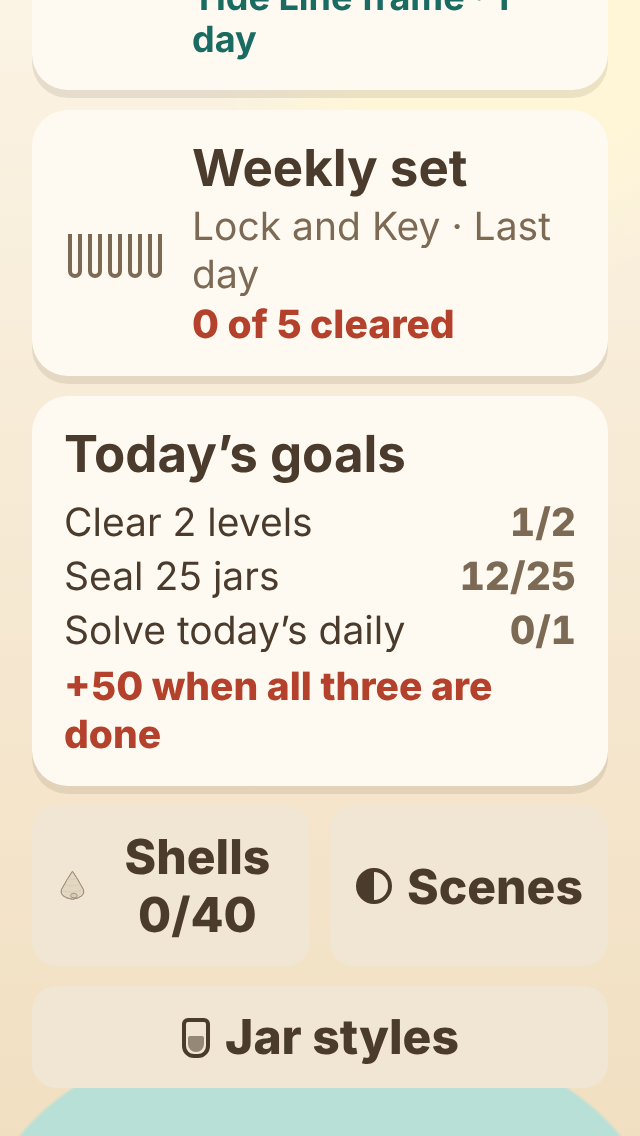
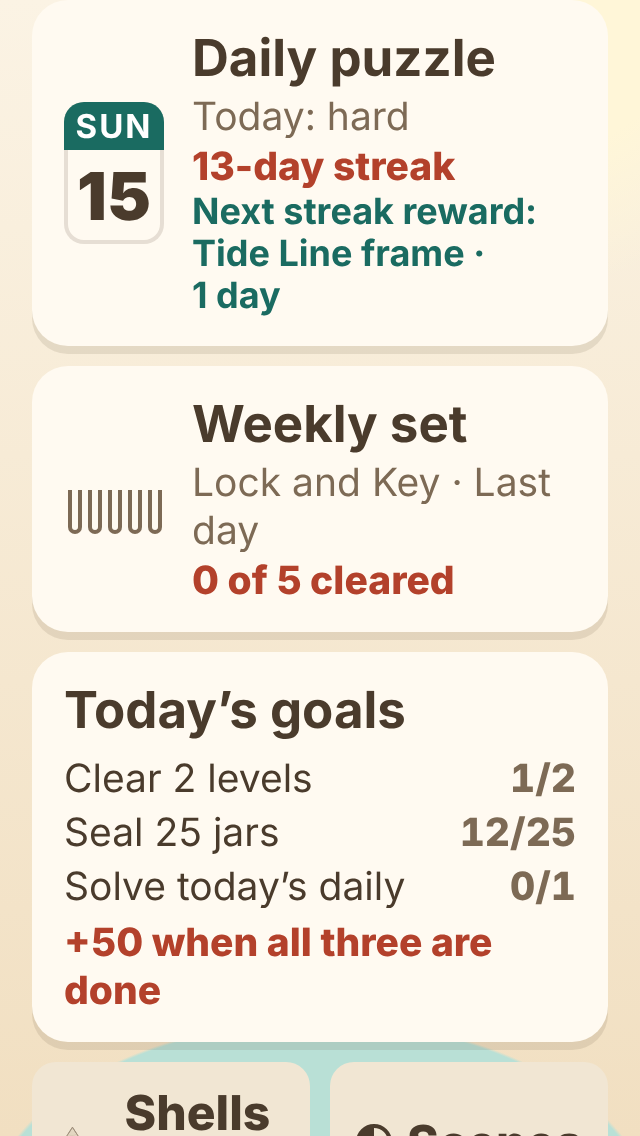
feat: release 0.15.0, streak rewards and daily goals
What's new 0.15.0 "Come back tomorrow"; a catch-up line for players who
update mid-streak; upgrade play-through evidence; decisions D135-D140
built; sprint 16 closed. The full-track sheet is a Beads follow-up.

Issue: strata-rin
Design: production/sprints/sprint-16.md

Claude-Session: https://claude.ai/code/session_0159TZnthw6jUQwzZniQXEcQ

diff --git a/src/ui/strings.ts b/src/ui/strings.ts
@@ -199,6 +199,15 @@ const en = {
     latest: 'Latest',
     releases: [
       {
+        version: '0.15.0',
+        name: 'Come back tomorrow',
+        lines: [
+          'Streak rewards: keep your daily streak going to earn boosters on days 3 and 7, then a frame, a jar glass, a name plate and a night scene you can only get this way.',
+          'Rewards are yours to keep, even if a streak ends.',
+          "Today's goals: three small goals each day on Home, worth coins, with a bonus when all three are done.",
+        ],
+      },
+      {
         version: '0.14.1',
         name: 'An easier climb',
         lines: [
@@ -619,11 +628,13 @@ const en = {
   /** The streak reward track (sprint 16, D136; daily-puzzle.md §2.4): Home's next reward, win card rows, locked pieces. */
   track: {
     /** The daily card's line, e.g. "Next streak reward: Tide Line frame · 4 days". */
-    next: (name: string, days: number) => `Next streak reward: ${name} \u00b7 ${days === 1 ? '1 day' : `${days} days`}`,
+    next: (name: string, days: number) => `Next streak reward: ${name} \u00b7 ${days === 1 ? '1\u00a0day' : `${days}\u00a0days`}`,
+    /** A streak that already passed unclaimed days (a player who updated mid-streak, D140). */
+    catchUp: 'Your next daily solve collects your streak rewards',
     /** A win card row, e.g. "Day 7 streak reward: Hint ×2, Shuffle, Jar". */
     row: (day: number, name: string) => `Day ${day} streak reward: ${name}`,
     /** A streak-only scene or jar piece not earned yet, e.g. "Streak reward · day 100". */
-    locked: (day: number) => `Streak reward \u00b7 day ${day}`,
+    locked: (day: number) => `Streak reward \u00b7 day\u00a0${day}`,
     frame: (name: string) => `${name} frame`,
     plate: (name: string) => `${name} name plate`,
     /** A jar piece with its slot, e.g. "Sea Lantern glass". */

diff --git a/src/ui/style.css b/src/ui/style.css
@@ -2880,7 +2880,7 @@ body[data-theme='lighthousenight'] :is(.tool, .daily-card, .profile-chip) {
   inherits: false;
   initial-value: 100deg;
 }
-/* A soft warm beam from a lamp at the top left, behind everything (z -1, no input). It sweeps slowly
+/* A soft warm beam from a lamp at the left, clear of the profile chip, behind everything (z -1, no input). It sweeps slowly
    with motion allowed, and holds still under reduced motion. */
 body[data-theme='lighthousenight'] .home::before {
   content: '';
@@ -2889,8 +2889,8 @@ body[data-theme='lighthousenight'] .home::before {
   z-index: -1;
   pointer-events: none;
   background:
-    radial-gradient(circle at 8% 9%, rgba(255, 232, 180, 0.9) 0 4px, rgba(255, 210, 130, 0.35) 9px, transparent 26px),
-    conic-gradient(from var(--beam-a) at 8% 9%, transparent 0deg, rgba(255, 214, 140, 0.16) 8deg, rgba(255, 214, 140, 0.05) 20deg, transparent 26deg, transparent 360deg);
+    radial-gradient(circle at 9% 24%, rgba(255, 232, 180, 0.9) 0 4px, rgba(255, 210, 130, 0.35) 9px, transparent 26px),
+    conic-gradient(from var(--beam-a) at 9% 24%, transparent 0deg, rgba(255, 214, 140, 0.16) 8deg, rgba(255, 214, 140, 0.05) 20deg, transparent 26deg, transparent 360deg);
 }
 @media (prefers-reduced-motion: no-preference) {
   body[data-theme='lighthousenight'] .home::before {

diff --git a/tests/unit/ui/logic/streak-track.test.ts b/tests/unit/ui/logic/streak-track.test.ts
@@ -23,9 +23,12 @@ describe('trackRewardName', () => {
 
 describe('nextRewardLine', () => {
   it('names the lowest unclaimed day and the days left', () => {
-    expect(nextRewardLine([3, 7], 10, track, names)).toBe('Next streak reward: Tide Line frame · 4 days');
-    expect(nextRewardLine([3, 7], 13, track, names)).toBe('Next streak reward: Tide Line frame · 1 day');
-    expect(nextRewardLine([], 0, track, names)).toBe('Next streak reward: Hint, Shuffle · 3 days');
+    expect(nextRewardLine([3, 7], 10, track, names)).toBe('Next streak reward: Tide Line frame · 4\u00a0days');
+    expect(nextRewardLine([3, 7], 13, track, names)).toBe('Next streak reward: Tide Line frame · 1\u00a0day');
+    expect(nextRewardLine([], 0, track, names)).toBe('Next streak reward: Hint, Shuffle · 3\u00a0days');
+  });
+  it('says the next solve collects when the streak already passed an unclaimed day (D140 catch-up)', () => {
+    expect(nextRewardLine([], 20, track, names)).toBe('Your next daily solve collects your streak rewards');
   });
   it('is empty once the whole track is claimed', () => {
     expect(nextRewardLine(track.map((s) => s.day), 120, track, names)).toBe('');

diff --git a/src/ui/logic/streak-track.ts b/src/ui/logic/streak-track.ts
@@ -43,12 +43,16 @@ export function trackRewardName(reward: TrackReward, names: TrackNames): string 
 }
 
 /**
- * The daily card's line: "Next streak reward: Tide Line frame · 4 days", or '' once every track
+ * The daily card's line: "Next streak reward: Tide Line frame · 4 days", the catch-up line when the
+ * streak already passed an unclaimed day, or '' once every track
  * day is claimed. `streak` is the live streak (`streakStatus(...).current`).
  */
 export function nextRewardLine(claimed: readonly number[], streak: number, track: readonly TrackStep[], names: TrackNames): string {
   const next = nextTrackStep(claimed, streak, track);
-  return next ? t.track.next(trackRewardName(next.step.reward, names), next.daysLeft) : '';
+  if (!next) return '';
+  // The streak already passed an unclaimed day (updated mid-streak): the next counted solve pays it (D140).
+  if (next.step.day <= streak) return t.track.catchUp;
+  return t.track.next(trackRewardName(next.step.reward, names), next.daysLeft);
 }
 
 /**

diff --git a/design/gdd/systems-index.md b/design/gdd/systems-index.md
@@ -38,7 +38,7 @@ Strata is a phone-first sort puzzle: the player pours layers of sand between jar
 | 14 | Weekly set | Progression | Full Vision | Implemented (sprint 11 W1, W2, D77) | [weekly-set.md](weekly-set.md) | 2, 3, 6, 9, 10, 13 |
 | 15 | Jar styles | Economy | Full Vision | Implemented (sprint 12, D85–D94) | [jar-styles.md](jar-styles.md) | 5, 8, 9, 10 |
 | 16 | Sharing | Meta | Full Vision | Designed and signed off (D116–D124), building in sprint 14 | [sharing.md](sharing.md) | 6, 7, 8, 9, 11, 12, 13, 14, 15 |
-| 17 | Daily goals | Progression | Full Vision | Designed (sprint 16, D137), building | [daily-goals.md](daily-goals.md) | 4, 5, 6, 10, 12, 14 |
+| 17 | Daily goals | Progression | Full Vision | Implemented (sprint 16, D137) | [daily-goals.md](daily-goals.md) | 4, 5, 6, 10, 12, 14 |
 
 Systems 2 and 3 depend on each other at the edges: generation places mechanics, and mechanics need the solver in generation. Both sit above the pour rules. Economy reads the tall-jar flag from level generation (2). Feel, audio and UI presents the player profile's screens (11); the profile does not depend on 9.
 
@@ -195,9 +195,9 @@ Every `INTENT UNKNOWN` item was put to the owner. "Build" means the decision nee
 | D132 | Measuring "gentle" | **A simulated player** that sees only visible sand and gives up after a patience limit, plus booster counts; replaces solver pours as the target | level-generation | built (0.14.1) |
 | D133 | Shipping | **One PR as 0.14.1**, best pours reset once for changed levels (D110 rule), after the owner approves the plan | — | built (0.14.1) |
 | D134 | A challenge on the receiver's own next level | **Pays as a normal first clear**: it is their own next level; only an already-cleared level plays as a replay with no coins (bug sweep, strata-8s1) | sharing | built |
-| D135 | Next focus after the bug sweep | **Bring players back**: more reasons to return each day, inside the brief's anti-pillars (owner interview 2026-11-11) | daily-puzzle, daily-goals | planned |
-| D136 | Streak reward track | **Fixed rewards on streak days 3, 7, 14, 30, 60, 100**: boosters on 3 and 7, then streak-only cosmetics (Tide Line frame, Sea Lantern glass, Lighthouse plate, Lighthouse Night scene), never for sale | daily-puzzle | planned |
-| D137 | Daily goals | **Three goals a UTC day, the same for everyone**, picked from the date; each pays 20-40 coins once, all three +50 | daily-goals | planned |
-| D138 | Reminders | **None**: no notifications, app badges or calendar events; the reasons to return live in the game | daily-goals | planned |
-| D139 | Release size | **One sprint, one release: 0.15.0** with a What's new card | release | planned |
-| D140 | A missed day and the track | **The track counts the current streak; rewards are kept and each day is claimed once.** A solve claims every unclaimed day up to the new streak (catch-up) | daily-puzzle | planned |
+| D135 | Next focus after the bug sweep | **Bring players back**: more reasons to return each day, inside the brief's anti-pillars (owner interview 2026-11-11) | daily-puzzle, daily-goals | built |
+| D136 | Streak reward track | **Fixed rewards on streak days 3, 7, 14, 30, 60, 100**: boosters on 3 and 7, then streak-only cosmetics (Tide Line frame, Sea Lantern glass, Lighthouse plate, Lighthouse Night scene), never for sale | daily-puzzle | built |
+| D137 | Daily goals | **Three goals a UTC day, the same for everyone**, picked from the date; each pays 20-40 coins once, all three +50 | daily-goals | built |
+| D138 | Reminders | **None**: no notifications, app badges or calendar events; the reasons to return live in the game | daily-goals | built |
+| D139 | Release size | **One sprint, one release: 0.15.0** with a What's new card | release | built |
+| D140 | A missed day and the track | **The track counts the current streak; rewards are kept and each day is claimed once.** A solve claims every unclaimed day up to the new streak (catch-up) | daily-puzzle | built |

diff --git a/production/sprints/sprint-16.md b/production/sprints/sprint-16.md
@@ -1,6 +1,6 @@
 # Sprint 16: come back tomorrow
 
-> **Status: planned (2026-11-11), approved by the owner.** From the owner interview after the bug sweep (D135–D140 in `design/gdd/systems-index.md`). Target release: **0.15.0**, with a What's new card.
+> **Status: built (2026-11-11), approved by the owner.** Released as 0.15.0. Evidence: `production/qa/evidence/sprint-16/`. From the owner interview after the bug sweep (D135–D140 in `design/gdd/systems-index.md`). Target release: **0.15.0**, with a What's new card.
 
 ## Why
 Live players say the game plays better since 0.14.1. The next goal is **bringing players back** (D135). Strata already gives reasons to return: the daily puzzle with growing streak coins and tide passes, and the weekly set of five. But a long streak earns nothing a player can keep, and a short visit that skips the daily earns little.
@@ -28,7 +28,7 @@ There are **no reminders** (D138), and the release ships as **one release, 0.15.
 
 - **Counting** (D140): the track counts the **current** streak. On each counted daily solve, every track day up to the new streak that is not yet claimed is claimed and paid. A player who already holds a 20-day streak claims days 3, 7 and 14 on the next solve.
 - **Rewards are earned once and kept for good.** A missed day resets the streak, but no reward is lost, and a claimed day never pays again.
-- **Placement.** The daily card on Home shows the next reward and the days left ("Next: Tide Line frame in 4 days"). The daily win card shows a claimed reward in its unlocks row. A small sheet opened from the daily card shows the whole track.
+- **Placement.** The daily card on Home shows the next reward and the days left ("Next: Tide Line frame in 4 days"). The daily win card shows a claimed reward in its unlocks row. ~~A small sheet opened from the daily card shows the whole track.~~ Not built: the daily card's next-reward line and the locked "Streak reward · day N" items in the Scenes and Jar styles sheets show the track instead (follow-up in Beads).
 - **Streak-only items** never appear for sale: the Scenes and Jar styles sheets show them as "Streak reward · day 100". The existing coral frame (best streak 14) and the existing badges stay as they are.
 
 ### Daily goals (`design/gdd/daily-goals.md`, new)
@@ -61,6 +61,11 @@ There are **no reminders** (D138), and the release ships as **one release, 0.15.
 | G3 | **Goals UI**: Home card, win card row | Screenshots at 390 and at 320 with 150% text |
 | D1 | **Docs**: `daily-goals.md` (8 sections), `daily-puzzle.md` §2.4, `economy.md` coin sources, `save-data.md`, decisions D135–D140 | As before |
 | R1 | **0.15.0**: version bump and What's new ("Streak rewards", "Daily goals") | Upgrade play-through; card shown once |
+
+## Notes from the build
+- Streak-only items are stored with `price: 0` and an `earned` day; `isOwned`, `buyTheme`, `buyStyle` and the sheets check `earned`, so they are never free and never sold.
+- Lighthouse Night is kind `sky` with no hours, so Auto never picks it: it shows only when chosen.
+- A player who updates mid-streak sees "Your next daily solve collects your streak rewards" and catches up on that solve (D140).
 
 ## Out of scope
 - Reminders, notifications and app badges (D138).
